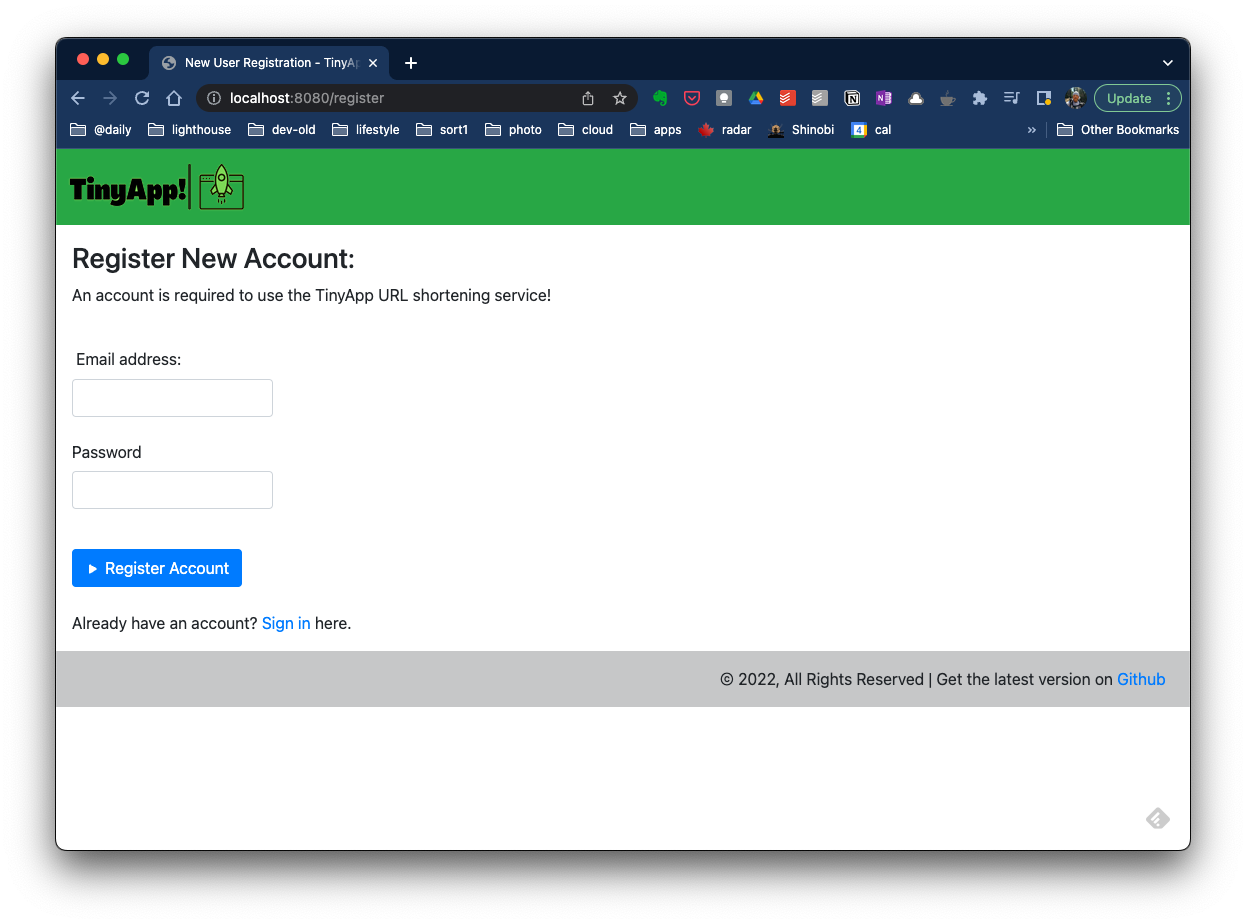
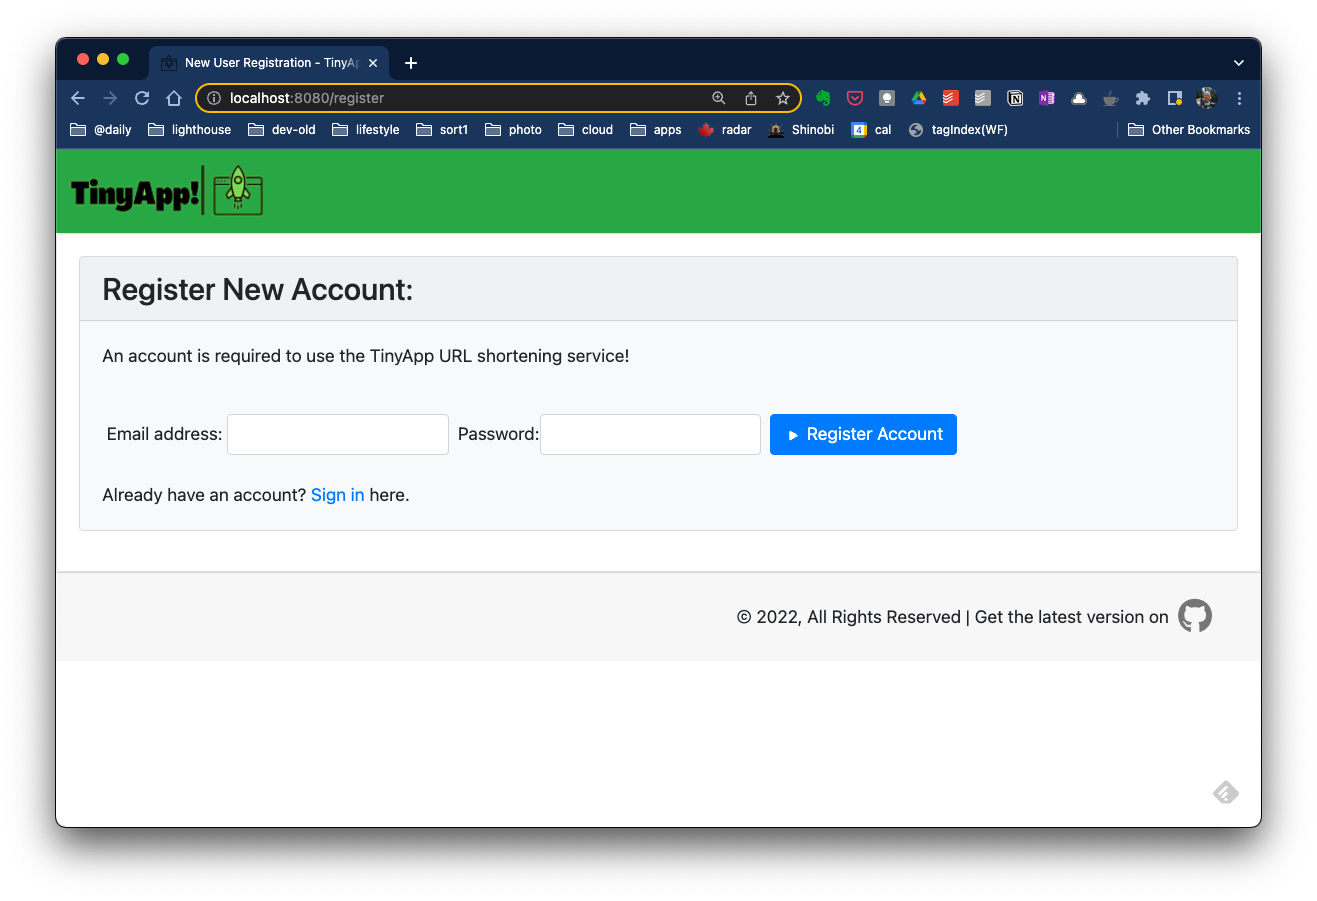
update screen shots & layouts via bootstrap

Changed region(s): [[0.0305, 0.0311, 0.9759, 0.9323], [0.5795, 0.4351, 0.7319, 0.5283], [0.3355, 0.4661, 0.427, 0.4972]]

diff --git a/express_server.js b/express_server.js
@@ -542,24 +542,26 @@ app.get("/u/:id", (req, res) => {
   cookieName(req);
 
   let id = req.params.id;
-  if (id !== 'undefined') {
+  
+  if (id !== 'undefined' && (id in urlDatabaseMain)) {      // does the id exist in main database?
     const longURL = urlDatabaseMain[id].longURL;
     consolelog(`${conColor.orange}Redirected to ${conColor.green}${longURL}${conColor.reset}`);
     tinyTrack(trackingDatabase,id,'inc'); // increase total click count on this tiny URL
 
     let tempuid;
     if (uid === "" || uid === "nobody") {
-      tempuid = makeID(8);                // create a temp user ID for even unregistered users
-      cookieName(req,"set",tempuid);      // set a cookie for unregistered users too!
+      tempuid = makeID(8);                                  // create a temp user ID for even unregistered users
+      cookieName(req,"set",tempuid);                        // set a cookie for unregistered users too!
     } else {
       tempuid = uid;
     }
     clickTrack(clickDatabase, id, tempuid, 'add');
     res.redirect(longURL);
-  } else {
-    consolelog(`${conColor.yellow}oops -  ${conColor.red}undefined${conColor.yellow} isn't a valid destination${conColor.reset}\n`);
-    return res.status(404).render("url_notfound.ejs");
+    return;
   }
+  // assume bad tiny url and send to 404
+  consolelog(`${conColor.yellow}oops -  ${conColor.red}undefined${conColor.yellow} isn't a valid destination${conColor.reset}\n`);
+  return res.status(404).render("url_notfound.ejs");
 });
 
 

diff --git a/README.md b/README.md
@@ -52,6 +52,7 @@ https://flex-web.compass.lighthouselabs.ca/projects/tiny-app
 - paginate click through logs  
 - allow main URL page sorting - by date added, long url alphabetical, # of clicks, etc
 - track hackers - if registered users try to manipulate other owner ID's, track & block them by email & IP.
+- implement SQL databases & go live with TinyApp!  
 [( back to top )](#about)
 ---
 ## Quick Start:
@@ -76,23 +77,24 @@ You'll be directed to the login page.  An account is required to create and mana
 4) Create new tiny URLS with the "Create" option.  Simply enter the long URL, and click or tap "submit". You'll return to the tiny URLs list (above) and see your new link added to the list!
 ![](image-createfirst.png)
 5) Update and modify tiny URL destinations through a dedicated update page.  
-You can also review link analytics on this page such as total click throughs, unique click throughs by users.  Additionally, the complete log of clicks, which includes the dates and times of when the tiny URL was clicked, is available too! 
+You can also review link analytics on this page such as total click throughs, and unique click throughs by users.  Additionally, the complete log of clicks, which includes the dates and times of when the tiny URL was clicked, is available too! 
 ![](image-createtinyurl.png)
+6) To review unique user click logs and complete click through logs, just click the header to expand on the log listings.
+![](image-accordion.png)
 [( back to top) ](#about)
 ----
 ## Known Bugs:  
 - none noticed
 ----
 ## Attributions:
-- title icon created by <a href="https://www.flaticon.com/free-icons/rocket" title="rocket icons">Freepik - Flaticon</a>
+- title "rocket" icon by <a href="https://www.flaticon.com/free-icons/rocket" title="rocket icons">Freepik - Flaticon</a>
 - css styling, in part, by <a href="https://getbootstrap.com">Bootstrap</a>
 - misc JS libraries by <a href="http://www.github.com/ej8899">ej-dev conColors(github)</a>
 ---
 ## Updates:
-- Get the most recent version of TinyApp! [here](https://github.com/ej8899/tinyapp).
+- Get the most recent version of TinyApp! [on our GitHub account here.](https://github.com/ej8899/tinyapp).
 - Change Log v 0.9 - 2022-08-06:  
     * (private testing only)
-    - add encrypted cookies
 
 ---
 [( back to top )](#about)
